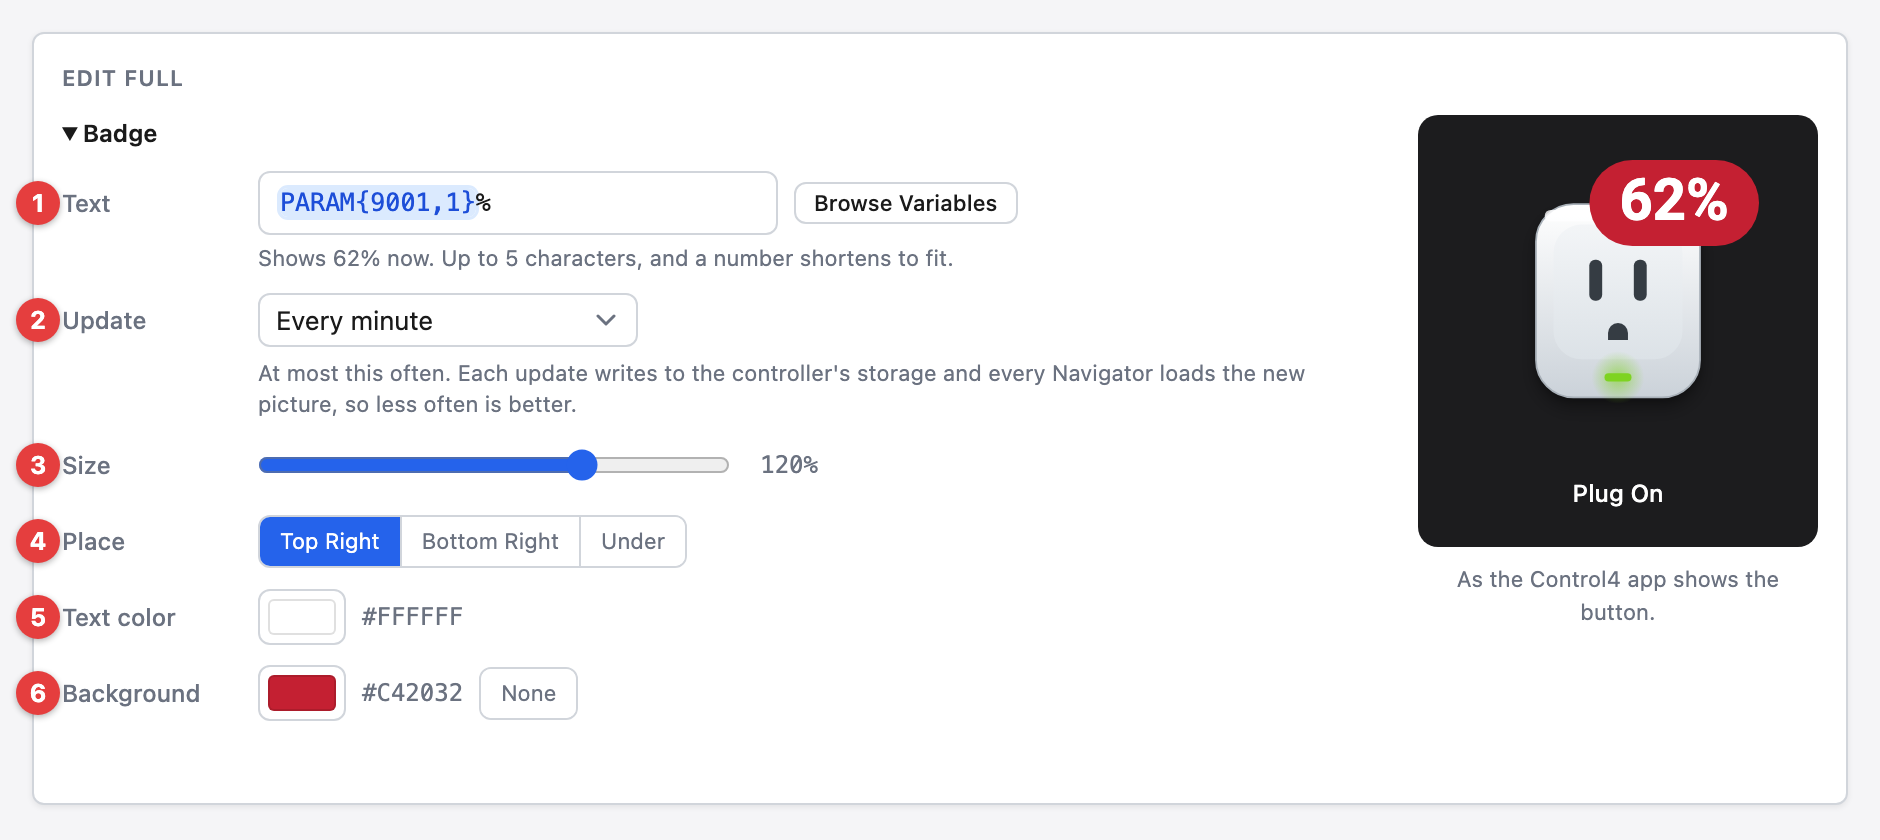
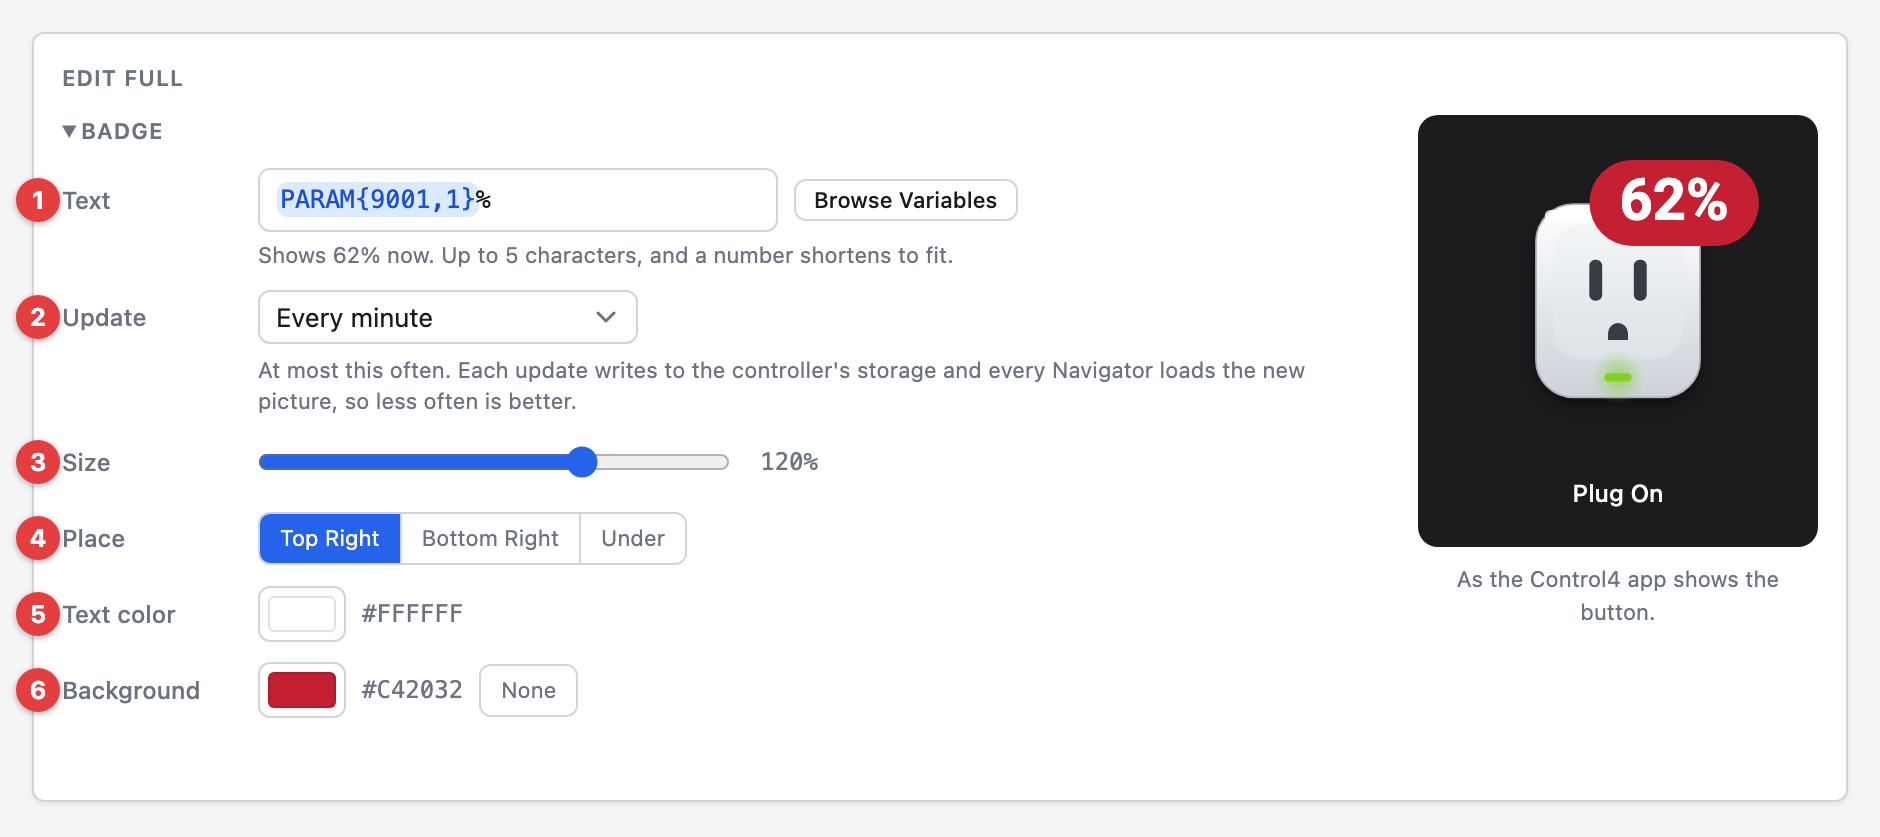
fix: the look editor's Customize and Badge sections head like the page's other sections

diff --git a/drivers/dynamic_button/www/html/index.html b/drivers/dynamic_button/www/html/index.html
@@ -201,7 +201,7 @@
   .packlist label { display: flex; align-items: center; gap: 6px; font-size: 12px; cursor: pointer; }
   .packlist .all { grid-column: 1 / -1; display: flex; gap: 8px; margin-bottom: 4px; }
   .customize { margin-top: 12px; border-top: 1px solid var(--border); padding-top: 10px; }
-  .customize > summary { cursor: pointer; font-size: 12px; font-weight: 600; color: var(--text); }
+  .customize > summary { cursor: pointer; font-size: 11px; text-transform: uppercase; letter-spacing: 0.5px; color: var(--text-muted); font-weight: 600; }
   #badge-form { margin-top: 10px; }
   .custom-head { display: flex; justify-content: flex-end; margin: -18px 0 8px; }
   /* A note sits under its control, on its own grid row, so its label stays level with the control. */
@@ -536,7 +536,7 @@
           </div>
         </div>
         <details class="customize" id="customize">
-          <summary>Icon</summary>
+          <summary>Customize</summary>
           <div class="custom-head"><button type="button" class="linkbtn" id="c-reset">Reset to the pack’s look</button></div>
           <div class="lookform" id="custom-form">
             <div class="frow" id="fld-c-color">

diff --git a/README.md b/README.md
@@ -28,7 +28,7 @@ the programming you attach to it.
     - [Properties](#properties)
     - [Looks](#looks)
     - [Look Editor](#look-editor)
-    - [Icon](#icon)
+    - [Customize](#customize)
     - [Badge](#badge)
     - [Icon Packs](#icon-packs)
     - [Free Icon Libraries](#free-icon-libraries)
@@ -199,13 +199,13 @@ Every color box opens a picker with the look's own colors and your recent colors
 as swatches, a hex box, and hue, saturation and lightness sliders. The picture
 changes as you pick, and `Esc` puts the color back.
 
-### Icon
+### Customize
 
-<img alt="Button tab - Icon" src="./images/ui-customize.png" width="640"/>
+<img alt="Button tab - Customize" src="./images/ui-customize.png" width="640"/>
 
-`Icon`, under the picture, changes the look's picture before it is saved. It
-shows only what the picked picture can use, and opens by itself on a look that
-changes its picture.
+`Customize`, under the picture, changes the look's picture before it is saved.
+It shows only what the picked picture can use, and opens by itself on a look
+that changes its picture.
 
 1. **Reset to the pack's look** - puts the picture back as it comes: no changes,
    its own glow and in color. The look keeps its badge. For a basic or library
@@ -234,8 +234,8 @@ changes its picture.
 
 <img alt="Button tab - Badge" src="./images/ui-badge.png" width="640"/>
 
-`Badge`, under `Icon`, draws text over the picture. It opens by itself on a look
-that has a badge.
+`Badge`, under `Customize`, draws text over the picture. It opens by itself on a
+look that has a badge.
 
 1. **Text** - up to 5 characters, or text with a variable's value in it. Empty
    means no badge. `Browse Variables` picks a variable. The controller draws a
@@ -278,7 +278,7 @@ one applies. They work with no internet.
 1. **Pack note** - how many pictures show, and what the pack looks like.
 1. **Preview** - a pack picture keeps its own colors, so `Tile shape`,
    `Icon color` and `Tile color` are hidden for it. The Classic packs add the
-   soft shadow the OS 3 look has. [Icon](#icon) can change its colors.
+   soft shadow the OS 3 look has. [Customize](#customize) can change its colors.
 
 ### Free Icon Libraries
 
@@ -346,7 +346,7 @@ was added, and all of them go when the button is deleted or reset.
      controller fetches the address again this often while the look shows, and
      at once when the look shows and its picture is older than that. The
      Control4 app shows the picture as the site sends it, so it has to be a PNG
-     or JPEG, and `Tile shape`, the colors, the Icon section and the Badge
+     or JPEG, and `Tile shape`, the colors, the Customize section and the Badge
      section don't apply. A fetch that brings the same picture changes nothing.
      Each new picture is written to the controller's storage and loaded by every
      Navigator, so less often is better.

diff --git a/drivers/dynamic_button/www/documentation/index.md b/drivers/dynamic_button/www/documentation/index.md
@@ -44,7 +44,7 @@ the programming you attach to it.
     - [Properties](#properties)
     - [Looks](#looks)
     - [Look Editor](#look-editor)
-    - [Icon](#icon)
+    - [Customize](#customize)
     - [Badge](#badge)
     - [Icon Packs](#icon-packs)
     - [Free Icon Libraries](#free-icon-libraries)
@@ -269,13 +269,13 @@ Every color box opens a picker with the look's own colors and your recent colors
 as swatches, a hex box, and hue, saturation and lightness sliders. The picture
 changes as you pick, and `Esc` puts the color back.
 
-### Icon
+### Customize
 
-<img alt="Button tab - Icon" src="./images/ui-customize.png" width="640"/>
+<img alt="Button tab - Customize" src="./images/ui-customize.png" width="640"/>
 
-`Icon`, under the picture, changes the look's picture before it is saved. It
-shows only what the picked picture can use, and opens by itself on a look that
-changes its picture.
+`Customize`, under the picture, changes the look's picture before it is saved.
+It shows only what the picked picture can use, and opens by itself on a look
+that changes its picture.
 
 1. **Reset to the pack's look** - puts the picture back as it comes: no changes,
    its own glow and in color. The look keeps its badge. For a basic or library
@@ -304,8 +304,8 @@ changes its picture.
 
 <img alt="Button tab - Badge" src="./images/ui-badge.png" width="640"/>
 
-`Badge`, under `Icon`, draws text over the picture. It opens by itself on a look
-that has a badge.
+`Badge`, under `Customize`, draws text over the picture. It opens by itself on a
+look that has a badge.
 
 1. **Text** - up to 5 characters, or text with a variable's value in it. Empty
    means no badge. `Browse Variables` picks a variable. The controller draws a
@@ -348,7 +348,7 @@ one applies. They work with no internet.
 1. **Pack note** - how many pictures show, and what the pack looks like.
 1. **Preview** - a pack picture keeps its own colors, so `Tile shape`,
    `Icon color` and `Tile color` are hidden for it. The Classic packs add the
-   soft shadow the OS 3 look has. [Icon](#icon) can change its colors.
+   soft shadow the OS 3 look has. [Customize](#customize) can change its colors.
 
 ### Free Icon Libraries
 
@@ -416,7 +416,7 @@ was added, and all of them go when the button is deleted or reset.
      controller fetches the address again this often while the look shows, and
      at once when the look shows and its picture is older than that. The
      Control4 app shows the picture as the site sends it, so it has to be a PNG
-     or JPEG, and `Tile shape`, the colors, the Icon section and the Badge
+     or JPEG, and `Tile shape`, the colors, the Customize section and the Badge
      section don't apply. A fetch that brings the same picture changes nothing.
      Each new picture is written to the controller's storage and loaded by every
      Navigator, so less often is better.
